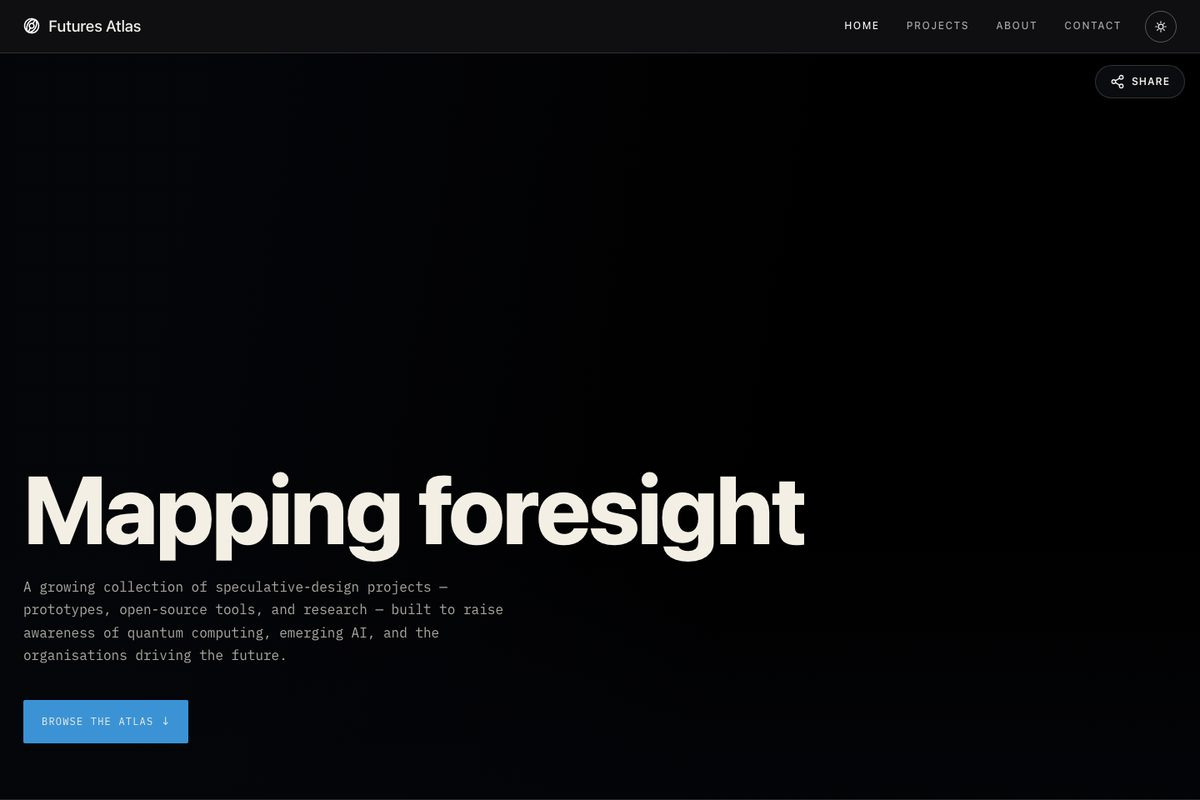
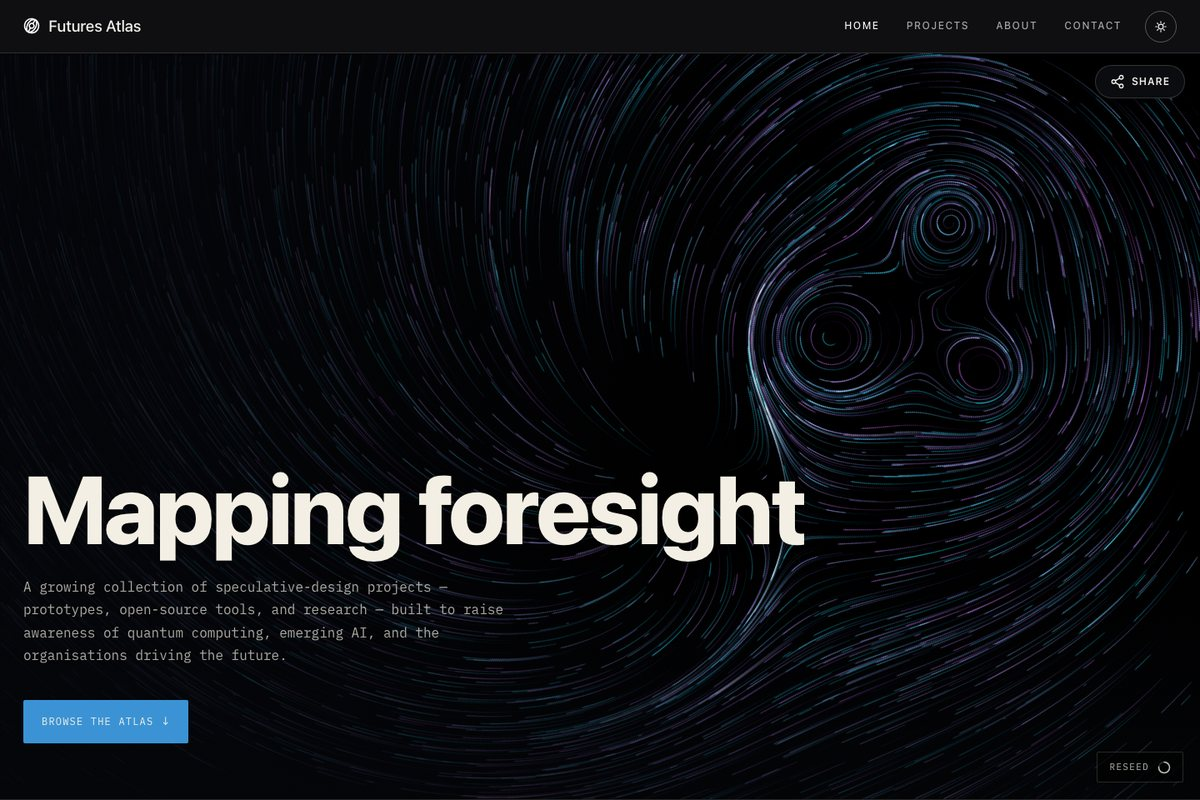
Roadmap: drop the eyebrow and all mono, flip budget labels, new hero grab
Recaptures the atlas tile with motion enabled: the hero embeds a canvas field
that renders a static black stage under prefers-reduced-motion, which is why
the first grab came out blank. Budget cards now lead with "Initial budget" and
name the area under the figure.

diff --git a/src/app/admin/presentation/cqs-phase1-phase2/page.tsx b/src/app/admin/presentation/cqs-phase1-phase2/page.tsx
@@ -136,7 +136,8 @@ const h3Cls = "font-display text-[20px] font-extrabold leading-[1.2] tracking-[-
 const introCls =
   "mt-5 max-w-[62ch] font-display text-[clamp(15px,1.7vw,18px)] font-normal leading-[1.65] text-ink-70";
 const bodyCls = "font-display text-[15px] font-normal leading-[1.6] text-ink-70";
-const labelCls = "font-mono text-[10.5px] uppercase tracking-[0.14em] text-graphite";
+const labelCls =
+  "font-display text-[11px] font-semibold uppercase tracking-[0.1em] text-graphite";
 /* Budget runs in the display face; the mono register stays on the rest of the page. */
 const budgetLabelCls =
   "font-display text-[11px] font-semibold uppercase tracking-[0.1em] text-graphite";
@@ -148,7 +149,6 @@ export default function RoadmapPage() {
       <section className="border-b border-ink/15 py-[clamp(56px,9vw,120px)]">
         <Container>
           <Reveal>
-            <p className="eyebrow tick mb-6">Internal. Not for circulation.</p>
             <h1 className="max-w-[18ch] text-[clamp(36px,5.6vw,80px)] font-extrabold leading-[0.96] tracking-[-0.028em] text-ink text-balance">
               Futures Atlas + CQS
             </h1>
@@ -168,13 +168,13 @@ export default function RoadmapPage() {
               <Reveal key={b.label} delay={i * 90}>
                 <div className="h-full border border-ink/15 p-6">
                   <div className="mb-5 flex items-center justify-between">
-                    <span className={budgetLabelCls}>{b.label}</span>
+                    <span className={budgetLabelCls}>Initial budget</span>
                     <span className="font-display text-[11px] font-medium text-ink/35">0{i + 1}</span>
                   </div>
                   <p className="font-condensed text-[clamp(40px,5vw,64px)] font-bold leading-[0.9] tracking-[-0.02em] text-ink">
                     {b.initial}
                   </p>
-                  <p className={`mt-1 ${budgetLabelCls}`}>Initial budget</p>
+                  <p className={`mt-1 ${budgetLabelCls}`}>{b.label}</p>
                   <div className="mt-6 border-t border-ink/15 pt-4">
                     <p className="font-condensed text-[clamp(22px,2.4vw,30px)] font-bold leading-none text-accent-deep">
                       {b.remaining}
@@ -236,7 +236,7 @@ export default function RoadmapPage() {
               <div className="border border-ink/25 bg-haze p-[clamp(24px,3.5vw,40px)]">
                 <h3 className={`${h3Cls} text-[clamp(19px,2vw,26px)]`}>Workshop (DeltAI)</h3>
                 <p className={`mt-4 ${bodyCls}`}>
-                  Runs alongside the Futures Atlas projects, led by Deborah.
+                  Explore output improvement, iterate based on feedback.
                 </p>
                 <div className="mt-7 flex flex-col gap-4">
                   {DELTAI_SHOTS.map((shot) => (